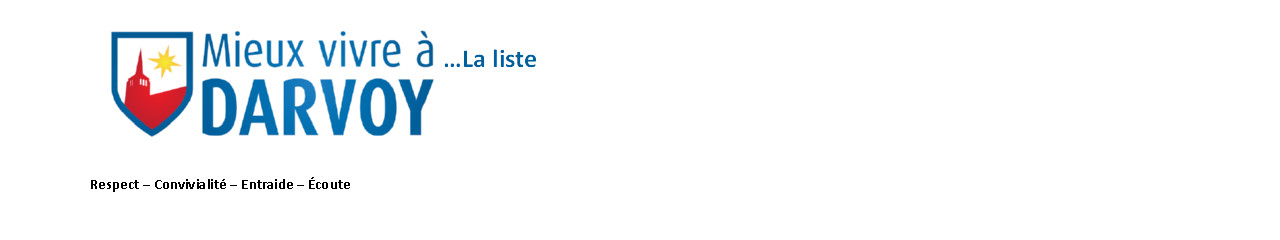
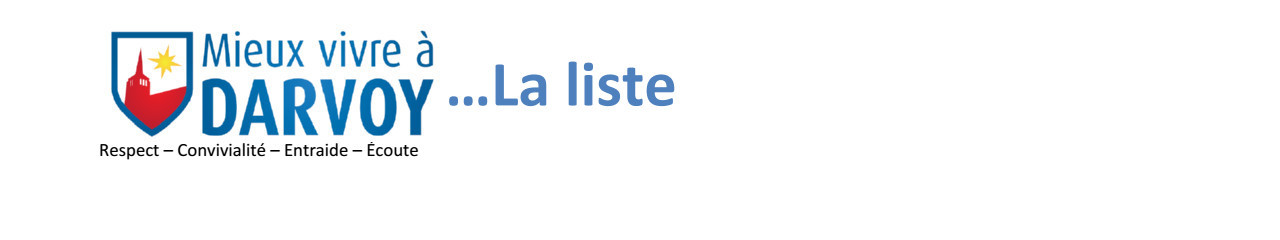
Nouvelle page d'acceuil

Changed region(s): [[0.3438, 0.2042, 0.5312, 0.4375], [0.0625, 0.5833, 0.3438, 0.6708], [0.0625, 0.7583, 0.2812, 0.7875]]

diff --git a/css/main.css b/css/main.css
@@ -9,8 +9,8 @@ section header {
     position: relative;
     height: 240px; width: 1200px;
     margin: auto; padding: 20px;
-    background: url('../img/bann.jpg') no-repeat left;
-    background-size: auto 240px;
+    background: url('/img/bann.jpg') no-repeat left;
+    background-size: 1280px 240px;
 }
 section main {
     width: 700px;
@@ -53,10 +53,18 @@ nav a.current::before{
     content: ">" 
 }
 
-main h1, main h2{
+main h1, main h2, main h6{
     color: #0264ad;
     font-family: "Bitter";
     font-weight: 600;
+}
+main h6{
+    text-align: center;
+}
+main address.signature{
+    text-align: right;
+    font-style: normal;
+    font-weight: bold;
 }
 
 hr {
@@ -72,3 +80,7 @@ pre code{
     display: block;
 }
 
+.left{
+    float: left;
+    margin: 20px; margin-left: 0px;
+}

diff --git a/index.md b/index.md
@@ -1,0 +1,33 @@
+---
+layout: default
+title: Mieux Vivre à Darvoy - la liste
+---
+
+<img class="left" src="/img/thierry.jpg">
+
+**Aux habitants de Darvoy**,
+
+Il y a maintenant un peu plus de deux mois, un groupe 
+d’hommes et de femmes a souhaité créer une association 
+**_MIEUX VIVRE À DARVOY_** afin d’être à votre écoute.
+
+Suite à votre mobilisation réelle, nous avons décidé de 
+constituer une liste en vue des prochaines élections 
+municipales et intercommunales, pour porter un projet qui 
+réponde à vos attentes.
+
+Nous souhaitons vous présenter cette liste composée de 
+Darvoysiens motivés, actifs, aux compétences diverses et représentatives de la 
+population de Darvoy aujourd’hui.
+
+Notre projet, nous voulons le partager avec vous, habitants de Darvoy, dans une 
+véritable volonté de proximité, d’ouverture et de transparence.
+
+**Je conduirai une liste entourée de femmes et d’hommes disponibles, 
+de sensibilités diverses et fédérés autour d’un projet commun :**
+
+###### « MIEUX VIVRE À DARVOY »
+
+<address class="signature">Thierry BASSAÏSTEGUY</address>
+
+![Les membres de la liste](/img/groupe.jpg)
